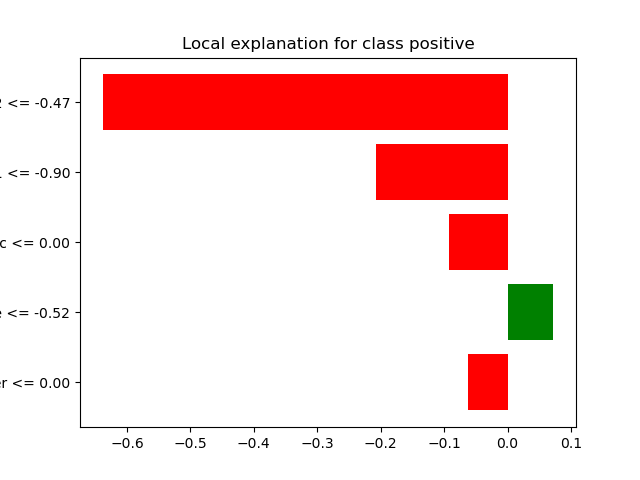
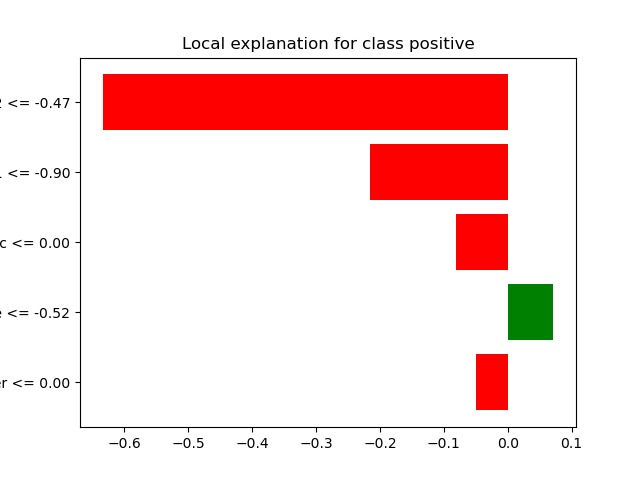
.

diff --git a/figures/lime_37.html b/figures/lime_37.html
@@ -37089,10 +37089,10 @@
 /***/ })
 /******/ ]);
 //# sourceMappingURL=bundle.js.map </script></head><body>
-        <div class="lime top_div" id="top_div5YVAXYCJKVZRCPA"></div>
+        <div class="lime top_div" id="top_divQ87RQ5IMOOJGJ79"></div>
         
         <script>
-        var top_div = d3.select('#top_div5YVAXYCJKVZRCPA').classed('lime top_div', true);
+        var top_div = d3.select('#top_divQ87RQ5IMOOJGJ79').classed('lime top_div', true);
         
             var pp_div = top_div.append('div')
                                 .classed('lime predict_proba', true);
@@ -37104,10 +37104,10 @@
             var exp = new lime.Explanation(["negative", "positive"]);
         
                 exp_div = top_div.append('div').classed('lime explanation', true);
-                exp.show([["num__G2 <= -0.47", -0.6297159106928624], ["num__G1 <= -0.90", -0.21577845393347375], ["ord__Walc <= 0.00", -0.08409610310504374], ["0.26 < num__age <= 1.04", -0.07821274875557307], ["0.09 < num__famrel <= 1.19", 0.0694930810203037]], 1, exp_div);
+                exp.show([["num__G2 <= -0.47", -0.6371421928866675], ["num__G1 <= -0.90", -0.22566462767331869], ["ord__Walc <= 0.00", -0.07744835289905005], ["0.00 < cat__Fjob_other <= 1.00", 0.059363927942951505], ["0.09 < num__famrel <= 1.19", 0.05883394815077302]], 1, exp_div);
                 
         var raw_div = top_div.append('div');
-            exp.show_raw_tabular([["num__G2", "-0.47", -0.6297159106928624], ["num__G1", "-0.90", -0.21577845393347375], ["ord__Walc", "0.00", -0.08409610310504374], ["num__age", "1.04", -0.07821274875557307], ["num__famrel", "1.19", 0.0694930810203037]], 1, raw_div);
+            exp.show_raw_tabular([["num__G2", "-0.47", -0.6371421928866675], ["num__G1", "-0.90", -0.22566462767331869], ["ord__Walc", "0.00", -0.07744835289905005], ["cat__Fjob_other", "1.00", 0.059363927942951505], ["num__famrel", "1.19", 0.05883394815077302]], 1, raw_div);
         
         </script>
         </body></html>

diff --git a/figures/lime_39.html b/figures/lime_39.html
@@ -37089,10 +37089,10 @@
 /***/ })
 /******/ ]);
 //# sourceMappingURL=bundle.js.map </script></head><body>
-        <div class="lime top_div" id="top_div2PKVVNWMFV5UIDW"></div>
+        <div class="lime top_div" id="top_divG2UEHCPS0KA9FEE"></div>
         
         <script>
-        var top_div = d3.select('#top_div2PKVVNWMFV5UIDW').classed('lime top_div', true);
+        var top_div = d3.select('#top_divG2UEHCPS0KA9FEE').classed('lime top_div', true);
         
             var pp_div = top_div.append('div')
                                 .classed('lime predict_proba', true);
@@ -37104,10 +37104,10 @@
             var exp = new lime.Explanation(["negative", "positive"]);
         
                 exp_div = top_div.append('div').classed('lime explanation', true);
-                exp.show([["num__G2 <= -0.47", -0.6475226745519642], ["ord__Walc > 2.00", 0.09670466915719704], ["cat__Fjob_other <= 0.00", -0.05704923970994646], ["num__famrel <= 0.09", -0.052484835172348386], ["cat__sex_F <= 0.00", -0.03298855573927552]], 1, exp_div);
+                exp.show([["num__G2 <= -0.47", -0.6287328390739392], ["ord__Walc > 2.00", 0.10251248723609475], ["num__famrel <= 0.09", -0.06419693135498196], ["ord__Dalc > 1.00", -0.06140426691320522], ["cat__Fjob_other <= 0.00", -0.054335557678281625]], 1, exp_div);
                 
         var raw_div = top_div.append('div');
-            exp.show_raw_tabular([["num__G2", "-0.47", -0.6475226745519642], ["ord__Walc", "3.00", 0.09670466915719704], ["cat__Fjob_other", "0.00", -0.05704923970994646], ["num__famrel", "0.09", -0.052484835172348386], ["cat__sex_F", "0.00", -0.03298855573927552]], 1, raw_div);
+            exp.show_raw_tabular([["num__G2", "-0.47", -0.6287328390739392], ["ord__Walc", "3.00", 0.10251248723609475], ["num__famrel", "0.09", -0.06419693135498196], ["ord__Dalc", "2.00", -0.06140426691320522], ["cat__Fjob_other", "0.00", -0.054335557678281625]], 1, raw_div);
         
         </script>
         </body></html>

diff --git a/figures/lime_31.html b/figures/lime_31.html
@@ -37089,10 +37089,10 @@
 /***/ })
 /******/ ]);
 //# sourceMappingURL=bundle.js.map </script></head><body>
-        <div class="lime top_div" id="top_div8Z34L33YZK8IZ5B"></div>
+        <div class="lime top_div" id="top_divCCPSUC835BX52TF"></div>
         
         <script>
-        var top_div = d3.select('#top_div8Z34L33YZK8IZ5B').classed('lime top_div', true);
+        var top_div = d3.select('#top_divCCPSUC835BX52TF').classed('lime top_div', true);
         
             var pp_div = top_div.append('div')
                                 .classed('lime predict_proba', true);
@@ -37104,10 +37104,10 @@
             var exp = new lime.Explanation(["negative", "positive"]);
         
                 exp_div = top_div.append('div').classed('lime explanation', true);
-                exp.show([["num__G2 <= -0.47", -0.6384098277433632], ["num__G1 <= -0.90", -0.20762130910328508], ["ord__Walc <= 0.00", -0.09224043056398551], ["num__age <= -0.52", 0.07224012001151699], ["cat__Fjob_other <= 0.00", -0.0623879507948481]], 1, exp_div);
+                exp.show([["num__G2 <= -0.47", -0.6341178769080955], ["num__G1 <= -0.90", -0.2154307461873881], ["ord__Walc <= 0.00", -0.08085946509982646], ["num__age <= -0.52", 0.07156515314529943], ["cat__Fjob_other <= 0.00", -0.04990745725421667]], 1, exp_div);
                 
         var raw_div = top_div.append('div');
-            exp.show_raw_tabular([["num__G2", "-0.73", -0.6384098277433632], ["num__G1", "-0.90", -0.20762130910328508], ["ord__Walc", "0.00", -0.09224043056398551], ["num__age", "-1.31", 0.07224012001151699], ["cat__Fjob_other", "0.00", -0.0623879507948481]], 1, raw_div);
+            exp.show_raw_tabular([["num__G2", "-0.73", -0.6341178769080955], ["num__G1", "-0.90", -0.2154307461873881], ["ord__Walc", "0.00", -0.08085946509982646], ["num__age", "-1.31", 0.07156515314529943], ["cat__Fjob_other", "0.00", -0.04990745725421667]], 1, raw_div);
         
         </script>
         </body></html>

diff --git a/src/model.py b/src/model.py
@@ -74,12 +74,13 @@ def create_model(model_type: str = "logistic", **kwargs):
         task = kwargs.pop("task", "classification")
         return create_stacking(estimators, final_est, task=task, **kwargs)
     if model_type == "xgboost":
-        if XGBClassifier is None:  # pragma: no cover - requires optional package
-            raise ImportError(
-                "xgboost is not installed. Install xgboost to use this model."
-            )
-        # Silence warning about label encoder for recent xgboost versions
-        return XGBClassifier(use_label_encoder=False, eval_metric="logloss", **kwargs)
+        if XGBClassifier is None:
+            raise ImportError("xgboost not installed.")
+        return XGBClassifier(
+            objective="binary:logistic",
+            eval_metric="logloss",
+            **kwargs,
+        )
     if model_type == "lightgbm":
         if LGBMClassifier is None:  # pragma: no cover - requires optional package
             raise ImportError(

diff --git a/dashboard.py b/dashboard.py
@@ -116,6 +116,7 @@ page = st.sidebar.selectbox(
         "Fairness Metrics",
         "Counterfactuals",
         "Explanations",
+        "Concept Explanations",
     ],
     index=0,
 )
@@ -253,7 +254,7 @@ elif page == "Counterfactuals":
     for path in cf_tables:
         _show_table(path, path.stem.replace("_", " ").title())
 
-elif page == "Explanations":
+elif page == "Concept Explanations":
     st.header("Concept-Level Explanations")
     st.markdown(
         "Causal effects of pedagogical concepts on final grades. "

diff --git a/src/train.py b/src/train.py
@@ -14,6 +14,13 @@ import seaborn as sns
 import matplotlib.pyplot as plt
 import numpy as np
 from pathlib import Path
+import warnings
+
+# Suppress common warnings for cleaner output
+warnings.filterwarnings("ignore", category=UserWarning, module="sklearn.base")
+warnings.filterwarnings("ignore", category=UserWarning, module="xgboost")
+warnings.filterwarnings("ignore", category=Warning, module="lightgbm")
+
 from lime.lime_tabular import LimeTabularExplainer
 try:
     import dice_ml
